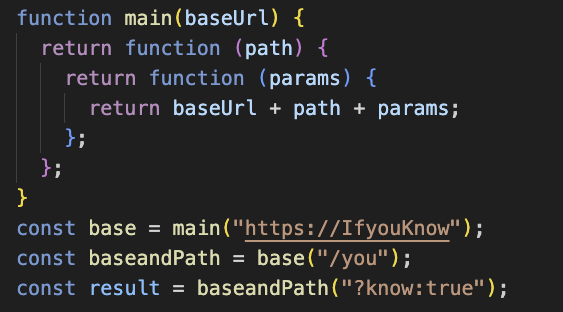
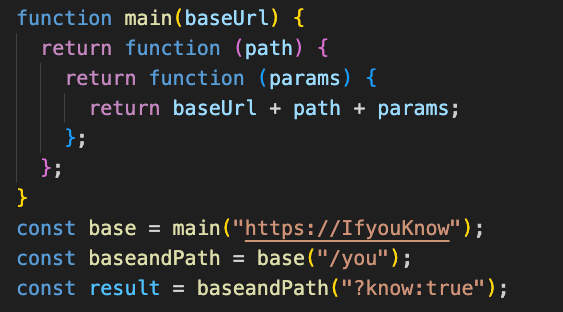
got rid of some files and updated dockerignore to ignore scripts folder , eslint config file and readme file. set mode to production in package.json. compressed img from 56kb to 12kb.

diff --git a/controllers/message_controller.js b/controllers/message_controller.js
@@ -2,6 +2,7 @@ const asyncHandler = require("express-async-handler");
 const { body, validationResult } = require("express-validator");
 const Message = require("../models/message");
 const User = require("../models/user");
+const debug = require("debug")("app:message");
 
 const options = { title: "Members Only", page_title: "Send a message" };
 exports.get_message = asyncHandler(async (req, res, next) => {
@@ -22,7 +23,7 @@ exports.post_message = [
     .withMessage("Message must not be blank."),
   asyncHandler(async (req, res, next) => {
     const errors = validationResult(req);
-    console.log("req body:", req.body);
+    debug("req body:", req.body);
     const message = new Message({
       title: req.body.title,
       message: req.body.message,
@@ -69,10 +70,10 @@ exports.post_delete_message = asyncHandler(async (req, res, next) => {
       { $pull: { messages: deletedMessage._id } },
       { new: true }
     ).exec();
-    console.log(`Updated user messages ${updatedUserMessages}`);
+    debug(`Updated user messages ${updatedUserMessages}`);
     req.flash("success", `Succesfully deleted ${deletedMessage._id} `);
     res.redirect("/");
   } catch (err) {
-    console.error("Error deleting message:", err);
+    debug("Error deleting message:", err);
   }
 });

diff --git a/config/passportConfig.js b/config/passportConfig.js
@@ -5,7 +5,6 @@ const bcrypt = require("bcryptjs");
 
 const Strategy = new LocalStrategy(async (username, password, done) => {
   try {
-    console.log(username);
     const user = await User.findOne({ username: username });
     if (!user) {
       return done(null, false, { message: "Incorrect username" });

diff --git a/controllers/login_controller.js b/controllers/login_controller.js
@@ -25,7 +25,7 @@ exports.post_login = [
       }
       if (!user) {
         options.errors = [{ msg: info.message }];
-        console.log(info.message);
+
         return res.render("login_form", options);
       }
       req.login(user, (err) => {

diff --git a/controllers/signUpController.js b/controllers/signUpController.js
@@ -51,7 +51,6 @@ exports.post_sign_up = [
     });
 
     if (!errors.isEmpty()) {
-      console.log(errors);
       options.errors = errors.mapped();
       options.user = userInfo;
       return res.render("signup_form", options);
